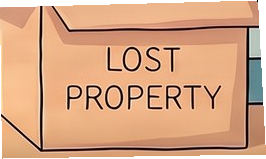
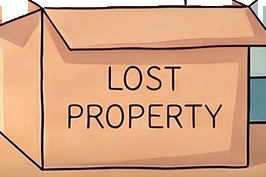
Owner's round two: the caption band under the room, spent notes leave the strip, the blocks land, the box rim covers its contents, the globe and orchid painted by the wall's own hand
- the moth's line has a permanent place: a caption band between the room and the strip, with the moth at its left; fit() uses 0.746
- a note with a spent() rule leaves the strip once its job is done (the school's notes and slips)
- blocks: firmer contact shadows; fall.land lowers a piece that rolls out onto the nearer mat
- the lost-property box front re-cut from the wall with the rim's ink line as its top edge; the things inside lowered
- the snow globe and the orchid: a second rendering of the living-room wall with them on the shelf, lifted out as cut-outs (new layer pngs)
- the padlock close-up a touch shorter so it fits a phone; the audit re-checks a failed load before reporting it
- BUILD 2026-10-12c; PLAYBOOK 4r and log 50; CHECKLIST 10, 11, 32d

Claude-Session: https://claude.ai/code/session_01EfdGHqbt9UMLzVmVXYp5s9

diff --git a/next/landscape/index.html b/next/landscape/index.html
@@ -37,6 +37,7 @@ button{font:inherit;color:inherit;cursor:pointer}
 
 #app{position:relative;height:100%;display:grid;place-items:center;padding:env(safe-area-inset-top,0) env(safe-area-inset-right,0) env(safe-area-inset-bottom,0) env(safe-area-inset-left,0)}
 .stage{width:calc(var(--u) * 100);display:flex;flex-direction:column;gap:calc(var(--u) * 1.2)}
+.stage .inv{margin-top:calc(var(--u)*-.4)}
 
 /* the scene */
 .scene{position:relative;width:100%;aspect-ratio:16/9;border-radius:calc(var(--u) * .8);overflow:hidden;background:#e9e2d2;box-shadow:0 0 0 var(--rule) var(--line), 0 calc(var(--u)*1) calc(var(--u)*3) rgba(0,0,0,.55)}
@@ -63,9 +64,9 @@ button{font:inherit;color:inherit;cursor:pointer}
 .arrow.l{left:calc(var(--u)*.4)} .arrow.r{right:calc(var(--u)*.4)}
 .arrow svg{width:calc(var(--u)*3.6);height:calc(var(--u)*3.6);filter:drop-shadow(0 0 calc(var(--u)*.5) rgba(255,255,255,.9))}
 .arrow:focus-visible{outline:calc(var(--u)*.4) solid var(--accent);border-radius:999px}
-.scene.zoomed .arrow,.scene.zoomed .msg{display:none}
+.scene.zoomed .arrow{display:none}
 /* a hands-on close-up beside the room: the room stays sharp and you are still standing in it; the panel slides in from one side */
-.scene.aside .arrow,.scene.aside .msg{display:none}
+.scene.aside .arrow{display:none}
 .closeup.aside{padding:calc(var(--u)*2.5) calc(var(--u)*2.5) calc(var(--u)*5.5);place-items:center end;background:linear-gradient(to left, rgba(7,9,13,.35), transparent 60%)}
 .closeup.aside.left{place-items:center start;background:linear-gradient(to right, rgba(7,9,13,.35), transparent 60%)}
 .closeup.aside .card.shelf{width:calc(var(--u)*46);animation:slideIn .38s cubic-bezier(.2,.7,.2,1) both}
@@ -90,7 +91,8 @@ button{font:inherit;color:inherit;cursor:pointer}
 .ctl:focus-visible{outline:calc(var(--u)*.4) solid var(--accent)}
 
 /* the line the game speaks */
-.msg{position:absolute;left:calc(var(--u)*9);right:calc(var(--u)*9);bottom:calc(var(--u)*1.6);margin:0;padding:calc(var(--u)*1) calc(var(--u)*1.8);
+.caption{position:relative;min-height:calc(var(--u)*6.2);display:flex;align-items:center;justify-content:center;padding:0 calc(var(--u)*9)}
+.msg{position:relative;max-width:100%;margin:0;padding:calc(var(--u)*.9) calc(var(--u)*1.8);
   background:var(--paper);color:var(--ink);border-radius:calc(var(--u)*.6);font-size:calc(var(--u)*2);line-height:1.35;text-align:center;
   box-shadow:0 0 0 var(--rule) var(--line), var(--cut);transition:opacity .25s;pointer-events:none}
 .msg:empty{opacity:0}
@@ -152,7 +154,7 @@ button{font:inherit;color:inherit;cursor:pointer}
 .ofb{margin:0;min-height:calc(var(--u)*2.6);font-size:calc(var(--u)*2);text-align:center;color:var(--ink)}
 .spell{margin:0;text-align:center;font-family:Caprasimo,Georgia,serif;font-size:calc(var(--u)*3);letter-spacing:.25em;color:#6d4fb8;min-height:calc(var(--u)*3.4)}
 .row{display:flex;gap:calc(var(--u)*1.2);justify-content:center;flex-wrap:wrap}
-.card.locker{width:calc(var(--u)*52);display:flex;flex-direction:column;gap:calc(var(--u)*1.4);align-items:center}
+.card.locker{width:calc(var(--u)*52);display:flex;flex-direction:column;gap:calc(var(--u)*1.1);align-items:center}
 .dials{display:flex;gap:calc(var(--u)*2)}
 .dial{width:calc(var(--u)*10);height:calc(var(--u)*13);border-radius:calc(var(--u)*1);border:0;background:#2b2836;color:#fffaf0;font-family:Caprasimo,Georgia,serif;font-size:calc(var(--u)*6);cursor:pointer;box-shadow:inset 0 calc(var(--u)*-.8) 0 rgba(0,0,0,.4), inset 0 calc(var(--u)*.6) 0 rgba(255,255,255,.12)}
 .dial:focus-visible{outline:calc(var(--u)*.4) solid var(--accent)}
@@ -165,7 +167,7 @@ button{font:inherit;color:inherit;cursor:pointer}
 .bar:focus-visible{outline:calc(var(--u)*.4) solid var(--accent)}
 .tune{margin:0;min-height:calc(var(--u)*3.4);display:flex;align-items:center;gap:calc(var(--u)*1)}
 .dot{display:inline-block;width:calc(var(--u)*2.8);height:calc(var(--u)*2.8);border-radius:50%;background:#e6e1d3;box-shadow:inset 0 0 0 calc(var(--u)*.25) rgba(0,0,0,.18)}
-.lockpic{position:relative;height:calc(var(--u)*21);aspect-ratio:700/912}
+.lockpic{position:relative;height:calc(var(--u)*19.5);aspect-ratio:700/912}
 .lockpic img{width:100%;height:100%;display:block}
 .cdial{position:absolute;width:19%;height:17%;border-radius:50%;border:0;transform:translate(-50%,-50%);cursor:pointer;box-shadow:inset 0 0 0 calc(var(--u)*.3) rgba(0,0,0,.28), inset 0 calc(var(--u)*-.5) 0 rgba(0,0,0,.18)}
 .cdial:focus-visible{outline:calc(var(--u)*.4) solid var(--accent)}
@@ -405,11 +407,11 @@ button{font:inherit;color:inherit;cursor:pointer}
 @media (prefers-reduced-motion:reduce){.flymoth{display:none}}
 
 /* the moth appears beside the message line while it speaks, and settles when it has finished */
-.talker{position:absolute;left:calc(var(--u)*1.2);bottom:calc(var(--u)*.8);width:calc(var(--u)*8);height:calc(var(--u)*8);pointer-events:none;z-index:3;opacity:0;transform:translateY(calc(var(--u)*2)) scale(.8);transition:opacity .35s, transform .35s;filter:drop-shadow(0 0 calc(var(--u)*1.2) rgba(243,194,106,.7))}
+.talker{position:absolute;left:calc(var(--u)*.6);bottom:calc(var(--u)*-.4);width:calc(var(--u)*7.4);height:calc(var(--u)*7.4);pointer-events:none;z-index:3;opacity:0;transform:translateY(calc(var(--u)*2)) scale(.8);transition:opacity .35s, transform .35s;filter:drop-shadow(0 0 calc(var(--u)*1.2) rgba(243,194,106,.7))}
 .talker img{width:100%;height:100%;object-fit:contain;display:block}
 .talker.on{opacity:1;transform:none}
 @media (prefers-reduced-motion:no-preference){.talker.on img{animation:hover 1.6s ease-in-out infinite}@keyframes hover{0%,100%{transform:translateY(0) rotate(-2deg)}50%{transform:translateY(calc(var(--u)*-.6)) rotate(2deg)}}}
-.scene.zoomed .talker{z-index:6}
+
 
 /* held in portrait: ask for a turn rather than squeezing the scene */
 .rotate{display:none;position:fixed;inset:0;background:var(--bg) linear-gradient(180deg, var(--bg), var(--bg2));color:#fffaf0;place-items:center;text-align:center;padding:24px;font-size:1.2rem;line-height:1.4;z-index:9}
@@ -440,13 +442,12 @@ button{font:inherit;color:inherit;cursor:pointer}
     <span class="where" id="where">Classroom 5H</span>
     <button class="ctl" id="hintBtn" aria-label="Ask the moth for a hint" title="Hint"><svg viewBox="-14 -10 28 20" aria-hidden="true"><path d="M0 0C-4-9-13-9-13-2-13 3-5 3 0 0Z" fill="#f0b44c"/><path d="M0 0C4-9 13-9 13-2 13 3 5 3 0 0Z" fill="#f0b44c"/><path d="M0 1C-3 7-9 8-9 4-9 1-4 1 0 1Z" fill="#e9b98a"/><path d="M0 1C3 7 9 8 9 4 9 1 4 1 0 1Z" fill="#e9b98a"/><ellipse cx="0" cy="1" rx="1.3" ry="5" fill="#2b3431"/></svg></button>
     <button class="ctl" id="menuBtn" aria-label="Settings and help"><svg viewBox="0 0 24 24" aria-hidden="true"><use href="#i-cog"/></svg></button>
-    <p class="msg" id="msg" aria-live="polite"></p>
-    <div class="talker" id="talker" aria-hidden="true"><img src="../art/portraits/moth-speak.png" alt=""></div>
     <div class="closeup" id="closeup" hidden></div>
     <div class="comic" id="comic" hidden><div class="cpage"><div class="cpic" id="cpic"></div><div class="cboxes" id="cboxes"></div><span class="cnext" id="cnext" aria-hidden="true"></span></div><button class="cskip" id="cskip">Skip</button><p class="cfoot" id="cfoot">Tap to go on</p></div>
     <div class="stagecard" id="stagecard" hidden></div>
     <div class="menu end" id="endUI" hidden><div class="endwrap"><p class="sent" id="endTitle"></p><div class="postcard" id="postcard"></div><div class="endrow"><button class="ob quiet" id="endAgain">Play this stage again</button><button class="ob" id="endNext" hidden>Next</button></div></div></div>
   </div>
+  <div class="caption" id="caption"><div class="talker" id="talker" aria-hidden="true"><img src="../art/portraits/moth-speak.png" alt=""></div><p class="msg" id="msg" aria-live="polite"></p></div>
   <div class="inv" id="inv" aria-label="Things you are carrying"></div>
 </div>
 </div>
@@ -563,13 +564,13 @@ button{font:inherit;color:inherit;cursor:pointer}
 
 <script>
 'use strict';
-const BUILD = '2026-10-12b';
+const BUILD = '2026-10-12c';
 const $ = id => document.getElementById(id);
 
 /* ---------- sizing: the scene fills the screen in landscape, inventory strip under it ---------- */
 function fit(){
   const vw = innerWidth - 16, vh = innerHeight - 12;
-  const w = Math.min(vw, vh / 0.6725, 1400);   /* scene 9/16 tall plus the strip and gap */
+  const w = Math.min(vw, vh / 0.746, 1400);   /* scene 9/16 tall, the caption band, the strip and the gaps */
   document.documentElement.style.setProperty('--u', (w / 100) + 'px');
 }
 addEventListener('resize', fit); fit();
@@ -659,11 +660,11 @@ function drawLayer(c, t){
     ctx.filter = 'none'; ctx.globalAlpha = 0.5; ctx.drawImage(wall, L.glass[0]/100*wall.naturalWidth, L.glass[1]/100*wall.naturalHeight, L.glass[2]/100*wall.naturalWidth, L.glass[3]/100*wall.naturalHeight, ...glassRect); ctx.globalAlpha = 1; };
   const damp = (f, tau) => Math.sin(2*Math.PI*f*t) * Math.exp(-t/tau);
   /* the three soft blocks: each band of the picture is one block; they tumble apart to the right and lie where they land */
-  const blockShadow = (cx, cy, w, a) => { ctx.save(); ctx.filter = `blur(${Math.max(2, W*0.03)}px)`; ctx.fillStyle = `rgba(30,25,40,${0.28*a})`; ctx.beginPath(); ctx.ellipse(cx, cy, w*0.46, Math.max(3, w*0.07), 0, 0, Math.PI*2); ctx.fill(); ctx.restore(); };
+  const blockShadow = (cx, cy, w, a) => { ctx.save(); ctx.filter = `blur(${Math.max(2, W*0.035)}px)`; ctx.fillStyle = `rgba(30,25,40,${0.42*a})`; ctx.beginPath(); ctx.ellipse(cx, cy, w*0.5, Math.max(3, w*0.085), 0, 0, Math.PI*2); ctx.fill(); ctx.restore(); };
   /* a soft block of a stack (kind 'block'): its own whole cut-out. L.fall = {dx (widths), rot, delay, lift}; L.drop = how many of its own
      heights the floor is below its box; L.done() says the stack has fallen. k runs 0 (in the stack) to 1 (landed) */
   const drawBlock = (k, airborne) => {
-    const P = L.fall, floor = oy + H*(1 + (L.drop || 0)), e = 1 - Math.pow(1-k, 2.2), rot = P.rot*e;
+    const P = L.fall, e = 1 - Math.pow(1-k, 2.2), rot = P.rot*e, floor = oy + H*(1 + (L.drop || 0) + (P.land || 0)*e); /* land: extra heights down, for a piece that rolls out onto the nearer mat */
     const rotH = th => (W*Math.abs(Math.sin(th)) + H*Math.abs(Math.cos(th)))/2;
     const cx0 = ox + W/2, cy0 = oy + H/2, cx1 = cx0 + P.dx*W, cy1 = floor - rotH(P.rot);
     let cx = cx0 + (cx1-cx0)*e, cy = cy0 + (cy1-cy0)*e - (airborne ? P.lift*H*Math.sin(Math.PI*k) : 0);
@@ -941,8 +942,10 @@ function render(){
   if (usable.length >= 1) tip('pickup', 2500);
   if (usable.length >= 2) tip('combine', 2500);
   const inv = $('inv'); inv.innerHTML = '';
+  /* a note whose job is done (its key found, its lock opened) leaves the strip, so the strip only shows what is still of use (owner, 12 Oct 2026) */
+  const shown = S.got.filter(k => ITEMS[k] && !(ITEMS[k].note && ITEMS[k].spent && ITEMS[k].spent()));
   for (let i = 0; i < 10; i++){
-    const key = S.got[i];
+    const key = shown[i];
     const b = document.createElement('button'); b.className = 'slot';
     if (key){ b.innerHTML = ITEMS[key].icon.replace('.png"', '.png?v=' + BUILD + '"'); b.setAttribute('aria-label', ITEMS[key].name); if (S.held === key) b.classList.add('sel');
       /* a note is read by tapping it; anything else is picked up in hand, then used by tapping where it goes, or on another thing in the strip */
@@ -1518,10 +1521,10 @@ function boot(){
   playSplash().then(showTitle);
 }
 </script>
-<script src="stages/school.js?v=2026-10-12b"></script>
-<script src="stages/packing.js?v=2026-10-12b"></script>
-<script src="stages/eschool.js?v=2026-10-12b"></script>
-<script src="stages/zschool.js?v=2026-10-12b"></script>
+<script src="stages/school.js?v=2026-10-12c"></script>
+<script src="stages/packing.js?v=2026-10-12c"></script>
+<script src="stages/eschool.js?v=2026-10-12c"></script>
+<script src="stages/zschool.js?v=2026-10-12c"></script>
 <script>boot();</script>
 <script>if ('serviceWorker' in navigator && location.protocol === 'https:') navigator.serviceWorker.register('../../sw.js').catch(() => {});</script>
 </body>

diff --git a/next/landscape/stages/school.js b/next/landscape/stages/school.js
@@ -155,9 +155,9 @@ const LAYERS = {
     {src:'../art/classroom/layer-plant4-pot.png', l:59.3, t:57.70, w:7.7, h:8.80, shadow:.5}],
   c3:[
     {src:'../art/classroom/layer-coat.png', group:'coat', l:67.1, t:50.6, w:10.8, h:24.2, lit:.45},
-    {src:'../art/classroom/layer-lost.png', group:'lost', l:79.2, t:77.2, w:8.8, h:7.85},
+    {src:'../art/classroom/layer-lost.png', group:'lost', l:79.2, t:78.0, w:8.8, h:7.85},  /* inside the box: tops above the rim, bases hidden by the front */
     /* the front of the box, cut from the wall picture itself, drawn over the things inside it */
-    {src:'../art/classroom/layer-boxfront.png', l:75.78, t:82.31, w:13.85, h:14.72},
+    {src:'../art/classroom/layer-boxfront.png', l:75.78, t:81.16, w:13.85, h:16.38},  /* cut from the wall with the rim's ink line as its top edge, so the rim covers the things inside */
     {src:'../art/classroom/layer-lid.png', group:'lid', l:27.4, t:68.6, w:10.4, h:10.7}],
   c4:[
     {src:'../art/classroom/layer-envelope.png', group:'envelope', l:50.5, t:66.5, w:6.5, h:5.5, hideWhen:() => S.got.includes('envelope')},
@@ -182,8 +182,8 @@ const LAYERS = {
     {src:'../art/school/layer-mallet.png', group:'mallet', l:21.5, t:76, w:5, h:9.45, shadow:.6, showWhen:() => S.toppled, hideWhen:() => S.got.includes('mallet') || S.beater},
     /* three whole soft blocks, stacked; each flies to its own landing place when the stack is tapped (kind 'block', see drawBlock) */
     {src:'../art/school/layer-block-blue.png', group:'blocks', kind:'block', l:24, t:69.7, w:9, h:15.36, padX:2.8, drop:0, fall:{dx:.15, rot:.03, delay:.2, lift:.05}, done:() => S.toppled},
-    {src:'../art/school/layer-block-red.png', group:'blocks', kind:'block', l:24.8, t:60.9, w:7.4, h:13.3, padX:2.8, padBelow:1.1, drop:.82, fall:{dx:1.3, rot:.08, delay:.1, lift:.3}, done:() => S.toppled},
-    {src:'../art/school/layer-block-yellow.png', group:'blocks', kind:'block', l:24.3, t:53.3, w:8.4, h:11.35, padX:2.8, padBelow:2.1, drop:1.81, fall:{dx:2.3, rot:.62, delay:0, lift:.5}, done:() => S.toppled}],
+    {src:'../art/school/layer-block-red.png', group:'blocks', kind:'block', l:24.8, t:60.9, w:7.4, h:13.3, padX:2.8, padBelow:1.1, drop:.82, fall:{dx:1.3, rot:.08, delay:.1, lift:.3, land:.06}, done:() => S.toppled},
+    {src:'../art/school/layer-block-yellow.png', group:'blocks', kind:'block', l:24.3, t:53.3, w:8.4, h:11.35, padX:2.8, padBelow:2.1, drop:1.81, fall:{dx:2.3, rot:.62, delay:0, lift:.5, land:.12}, done:() => S.toppled}],
   /* art room */
   ae:[ /* the combination padlock: its three white dials show the colours the player has set, drawn over the picture */
     {src:'../art/school/layer-diallock.png', group:'diallock', l:47.7, t:62, w:4.4, h:10.19, padBelow:1.6, gone:() => S.paintOpen, over:drawDials}],
@@ -287,15 +287,15 @@ const CODE = [4, 3, 6]; /* Science on Thursday = 4, Music on Tuesday = 3, Art on
 const SUBJECT = {Ma:['i-ma','#2f7c83','Maths'], En:['i-en','#d9a622','English'], Sc:['i-sc','#3b78b8','Science'], Mu:['i-mu','#7a5cc2','Music'], Ar:['i-ar','#d0602f','Art'], PE:['i-pe','#27794c','PE'], Ge:['i-ge','#a8744a','Geography'], Li:['i-li','#c4589a','Library']};
 
 const ITEMS = {
-  envelope:{name:'riddle envelope', note:'envelope', icon:'<img src="../art/classroom/item-envelope.png" alt="">'},
-  noteStar:{name:'note from The Night Sky', note:'noteStar', found:'A folded note falls out of {b}!', icon:'<img src="../art/school/item-note.png" alt="">'},
-  music:{name:'page of music', note:'music', found:'A loose page slips out of {b}!', icon:'<img src="../art/school/item-music.png" alt="">'},
-  notePaint:{name:'note from the painting book', note:'notePaint', found:'A folded note falls out of {b}!', icon:'<img src="../art/school/item-note.png" alt="">'},
+  envelope:{name:'riddle envelope', note:'envelope', spent:() => ['slipSc','slipMu','slipAr'].every(k => S.got.includes(k)), icon:'<img src="../art/classroom/item-envelope.png" alt="">'},
+  noteStar:{name:'note from The Night Sky', note:'noteStar', spent:() => S.stemOpen, found:'A folded note falls out of {b}!', icon:'<img src="../art/school/item-note.png" alt="">'},
+  music:{name:'page of music', note:'music', spent:() => S.drawerOpen, found:'A loose page slips out of {b}!', icon:'<img src="../art/school/item-music.png" alt="">'},
+  notePaint:{name:'note from the painting book', note:'notePaint', spent:() => S.paintOpen, found:'A folded note falls out of {b}!', icon:'<img src="../art/school/item-note.png" alt="">'},
   starkey:{name:'star key', icon:'<img src="../art/school/item-starkey.png" alt="">'},
   mallet:{name:'beater', icon:'<img src="../art/school/item-mallet.png" alt="">'},
-  slipSc:{name:'Science slip', note:'slipSc', icon:'<img src="../art/school/item-slipSc.png" alt="">'},
-  slipMu:{name:'Music slip', note:'slipMu', icon:'<img src="../art/school/item-slipMu.png" alt="">'},
-  slipAr:{name:'Art slip', note:'slipAr', icon:'<img src="../art/school/item-slipAr.png" alt="">'}
+  slipSc:{name:'Science slip', note:'slipSc', spent:() => S.opened, icon:'<img src="../art/school/item-slipSc.png" alt="">'},
+  slipMu:{name:'Music slip', note:'slipMu', spent:() => S.opened, icon:'<img src="../art/school/item-slipMu.png" alt="">'},
+  slipAr:{name:'Art slip', note:'slipAr', spent:() => S.opened, icon:'<img src="../art/school/item-slipAr.png" alt="">'}
 };
 /* Hints follow three threads at once: the moth helps with whichever trail the player has got furthest along. */
 const HINTS = [

diff --git a/next/landscape/stages/packing.js b/next/landscape/stages/packing.js
@@ -94,7 +94,8 @@ const LAYERS = {
   b4:[moth(1, 57, 17.6), {src:A+'layer-jumper.png', group:'jumper', l:52, t:30.5, w:7, h:15.3, hideWhen:() => got('jumper') || packed('jumper')}],
   l1:[rain(34, 13, 33, 42), {src:A+'layer-key.png', group:'key', l:73.4, t:34.8, w:2.8, h:7.97, hideWhen:() => S.keyTaken},
       {src:A+'layer-paper.png', group:'paper', l:60, t:46, w:2.4, h:19.7, shadow:.5, hideWhen:() => S.paperGone}],
-  l2:[{src:A+'layer-snowglobe.png', group:'snowglobe', l:20, t:32.3, w:5.5, h:11.2, shadow:.6}, {src:A+'layer-orchid.png', group:'orchid', l:61, t:30.6, w:5, h:12.95, shadow:.5}, moth(3, 33, 91.5)],
+  /* the globe and the orchid were painted into this wall by the same hand (a second rendering of l2 with them on the shelf), then lifted out as cut-outs, so they carry the wall's own light and shadow */
+  l2:[{src:A+'layer-snowglobe.png', group:'snowglobe', l:19.53, t:19.54, w:9.84, h:13.98}, {src:A+'layer-orchid.png', group:'orchid', l:57.45, t:14.72, w:12.08, h:18.8}, moth(3, 33, 91.5)],
   l4:[moth(4, 59.8, 44)],
   k1:[{draw:'steam', group:'steam', l:30, t:44, w:6, h:9}, {src:A+'layer-mum.png', group:'mum', l:40, t:31, w:17, h:61.8, shadow:.7}],
   k2:[moth(5, 47, 23.4), {src:A+'layer-postcard.png', group:'postcard', l:44, t:52, w:7, h:9.7},

diff --git a/tools/audit.js b/tools/audit.js
@@ -76,7 +76,8 @@ const voiced = new Set(JSON.parse(fs.readFileSync(path.join(__dirname, '../next/
         }
       }
       if (errors.length) say(stage, 'D28', `errors at ${name}${reduce ? ' (reduced motion)' : ''}: ${errors.slice(0, 3).join(' | ')}`);
-      [...new Set(failed)].forEach(u => say(stage, 'G38', `failed to load at ${name}: ${u.split('/').slice(-2).join('/')}`));
+      /* a load that failed once is asked for again before it is reported: the local server drops a request now and then under load */
+      for (const u of new Set(failed)){ const ok = await p.evaluate(u => fetch(u, {cache:'reload'}).then(r => r.ok).catch(() => false), u.split(' ')[0]); if (!ok) say(stage, 'G38', `failed to load at ${name}: ${u.split('/').slice(-2).join('/')}`); }
       await p.close();
     }
   }

diff --git a/next/PLAYBOOK.md b/next/PLAYBOOK.md
@@ -224,6 +224,14 @@ The design plan that led here, with its review against the generic default, is k
 - **The read-along.** As the moth reads, the words it has said turn the teal pen and the word it is on sits on gold (`readAlong`, `.w.read`, `.w.now`), in the comic's captions, the stage card, the message line (intro, tips, pointed hints, Zaina's lines), a note and the notebook's hint. The recordings carry no word times, so the time is shared out by letters, with a pause at a full stop or a comma; labels in bold ("The moth says:") are not read and are not marked. It stops the moment the voice stops.
 - **No whispering.** The tips were re-recorded in the moth's normal narrating voice and the label is "The moth says". The recording style no longer asks for a whispery voice, and hints are no longer asked for as whispers; lines recorded before 12 Oct keep the old style until the voice pass (backlog T13) re-records them.
 
+## 4r. The caption band, spent notes, and things painted by the wall's own hand (owner, 12 Oct 2026)
+
+- **The moth's line has a permanent place**: a caption band between the room and the inventory strip, with the moth at its left end. It never covers the room, so no tap target is ever under it. The stage is scene + band + strip (`fit()` uses 0.738 of the width as the height), which makes the room about nine percent smaller on a phone-shaped screen than before; the owner chose a fixed place over the overlap.
+- **A note leaves the strip when its job is done** (`ITEMS[k].spent()`): the star note once the star padlock is open, the music page once the drawer is open, the painting note once the paint cupboard is open, the three slips once the locker is open, the envelope once all three slips are found. The note stays in the save (`S.got`), only the strip hides it, so hints and progress are untouched.
+- **Blocks that land**: a firmer contact shadow under every piece at rest, and `fall.land` lowers a piece that rolls out onto the nearer mat, so the three sit on the mat at different depths like real things.
+- **A box front is cut with the rim's ink line as its top edge**, column by column, so what is inside is covered exactly where the rim is drawn (the lost property box: the earlier cut began a little below the line and the things inside seemed to stand on the rim).
+- **Things on a surface are painted by the wall's own hand.** When a cut-out looks pasted on (the snow globe and the orchid), the fix is not a shadow or a filter: the wall is rendered again with the things in place, in its own style and light, and the things are lifted out of that rendering as cut-outs (the difference against the original wall, grown from a seed inside each object, cut above the shelf's line). The original wall stays the wall. `tools/` has no script for this yet; the steps are in the session notes and this entry.
+
 ## 8. Backlog for the game's feel (ranked 30 Sept 2026, impact against effort)
 
 The owner's brief: finish the feel and navigation before more levels. Inspiration from the games he plays (Rusty Lake's Servant of the Lake): a single-scene moment the player must act on before the story moves (dragging the curtains shut before the coach leaves), a character voice that speaks the story text, and a settings cog always in the corner with tabbed settings, help, achievements and about. Nothing is copied from those games; only the ideas.
@@ -365,3 +373,4 @@ Items 1, 3, 4, 6 and 7 are one build, about a day, the "tester round 1" build; 2
 47. Tester-round build (2026-10-01a, 1 Oct 2026), the first step of "fix one level before building new ones": the engine fixes checked on Mary's school. A long press never opens the browser's menu (`contextmenu` prevented on the stage, no touch callout on the room's pictures); the door before the envelope turns you to the desk and the moth points at it; a solved bonus riddle says so; the full-screen row hides where it cannot work and a refused request says to use Add to Home screen; the choose-a-child cards say "Mary, 10 · for ages 10 and up, with puzzles for grown-ups" (and so on), with the same in About. On Elliot's day: the three cogs go into the robot (a whirr, a star on the postcard, the notebook line), the robot says how many it still wants, and Captain says he keeps the notebook the first time. Rule: a gate ("not yet") is never a refusal line alone; the moth turns the player to what is needed and points.
 48. "Use the front end design skill to improve the UI" (owner, 12 Oct 2026). → build 2026-10-12a, the interface drawn as a page of the comic (4p): one dusk sky, paper and ink for everything read or pressed, the moth as the title's hero, the tracked-caps place lines and eyebrow replaced with italic sentence case, dark pills gone. Checked at 2000×700, 740×360 and 1600×1000, with the play scripts and the audit. Awaiting the owner's verdict before it goes live.
 49. Owner's round on the interface build (12 Oct 2026): the children's portraits and the comic's pictures loaded last; a delay between a tap and the voice; "the words could be highlighted once read, for younger players"; the tip's whisper voice unwanted. → build 2026-10-12b (4q): portraits ready during the start-up, the comic's pages and the opening lines in the loading bar, captions never before their picture, one kept Audio element per line, the read-along in teal and gold, the seven tip lines re-recorded without the whisper and the label changed to "The moth says". Rule: anything shown or said on the way into a screen is made ready before that screen, and a spoken line shows its progress.
+50. Owner's second round on the interface build (12 Oct 2026): the lost-property shoe and hat still misaligned; spent clues should leave the strip; the fallen blocks still floating; the message box overlaps playable parts of the room and needs a permanent place; the snow globe and orchid do not sit naturally on the shelf. → build 2026-10-12c (4r): the box front re-cut from the rim line and the things lowered into the box; notes with a `spent` rule leave the strip; firmer block shadows and a lower landing for the pieces that roll out; the caption band under the room; the globe and orchid painted into a second rendering of the wall and lifted out as cut-outs. Each was reproduced at 2000×700 before and after.

diff --git a/next/CHECKLIST.md b/next/CHECKLIST.md
@@ -16,8 +16,8 @@ Every fault the owner has had to point out, turned into a check. It is used twic
 ## B. Every cut-out (a thing placed on a wall)
 
 9. **Proportions.** The box keeps the picture's own proportions: h = w × pictureH / pictureW × 16/9. A squashed or stretched cut-out fails (audit checks this).
-10. **Standing on a surface.** A thing on the floor stands below the skirting line, never on it (the trolley, log 40). A thing on a seat sits back from the front edge with the seat visible in front of it (the hamster, log 40). A thing on a shelf or table stands on the surface, not on its front edge. Every one of these has a contact shadow (`shadow`), so nothing floats (logs 6, 40).
-11. **Inside something.** A thing in a box or cupboard sits behind the box's own front, which is cut from the wall and drawn over it; tops show above the rim, bottoms are hidden (logs 8, 9, 37).
+10. **Standing on a surface.** A thing that still looks pasted on after placement and shadow is painted into a second rendering of its wall and lifted out, so it carries the wall's own light (playbook 4r, log 50). A thing on the floor stands below the skirting line, never on it (the trolley, log 40). A thing on a seat sits back from the front edge with the seat visible in front of it (the hamster, log 40). A thing on a shelf or table stands on the surface, not on its front edge. Every one of these has a contact shadow (`shadow`), so nothing floats (logs 6, 40).
+11. **Inside something.** The box's front is cut from the wall with the rim's ink line as its top edge, column by column, never from a little below it (log 50). A thing in a box or cupboard sits behind the box's own front, which is cut from the wall and drawn over it; tops show above the rim, bottoms are hidden (logs 8, 9, 37).
 12. **Hanging.** Anything hanging hangs from something drawn: a hook, a peg, a staple through a padlock's shackle. A lock glued to a door fails (log 37).
 13. **Behind glass.** Clipped to the glass, toned down, the glass painted over it in every frame (logs 5, 7, 8).
 14. **Light.** The room's light on a cut-out is blurred broad light only, never the lines behind it; a thing that looks see-through fails (the coat, the bin lid, the hat, logs 12, 13, 37).
@@ -50,6 +50,8 @@ Every fault the owner has had to point out, turned into a check. It is used twic
 32. Tap targets are finger-sized, never under the turn arrows (the strips halfway up each side in the landscape engine), never covered by a bigger target unless the bigger one is listed first (audit checks size and the arrow strips). Hotspot ids are unique across every stage (audit checks).
 
 32b. A long press anywhere on the room glows the tappables and never opens the browser's own menu (tester round 1, T1): the scene prevents `contextmenu` and its pictures have no touch callout.
+
+32d. The moth's line lives in the caption band under the room and never over it; nothing tappable is ever covered by a message (log 50). A note leaves the strip when its job is done.
 
 32c. Every piece of chrome is paper with the ink rule on the one dusk sky (playbook 4p): no dark translucent pills, no tracked capitals, one gold primary button per screen, disabled buttons as muted paper. A new element that is not paper with the rule is a stranger.
 
